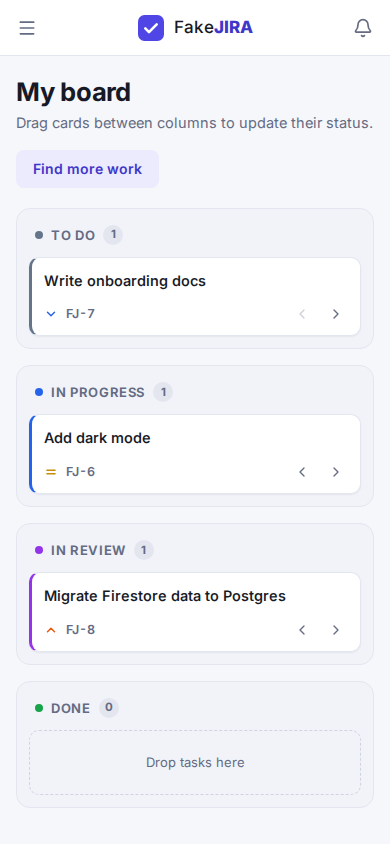
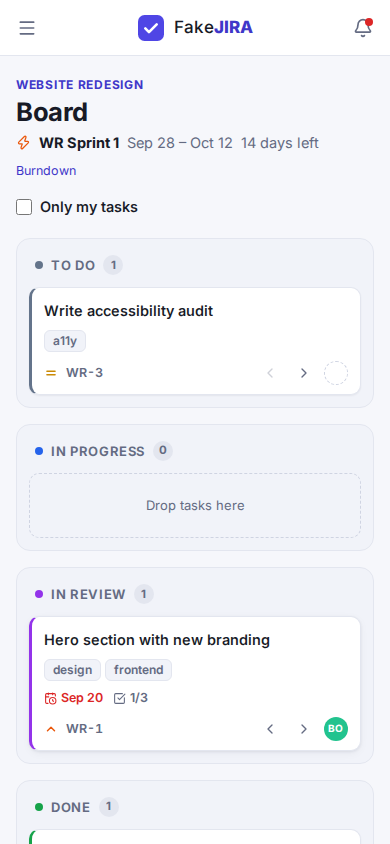
Document new features and wire attachments and email into Docker
- Store attachments in the /data volume (APP_STORAGE_DIR).
- docker-compose passes optional settings from .env (APP_BASE_URL,
  SPRING_MAIL_*); .env.example documents them.
- README: new features, configuration, upgrade notes from 2.0, API
  table and fresh screenshots.

Claude-Session: https://claude.ai/code/session_01PNjnNnhnffkfiRPxc5R3YR

diff --git a/README.md b/README.md
@@ -3,22 +3,39 @@
 A lightweight, Jira-style task tracker for small teams, built for a university course.
 Version 2.0 replaces the original Android + Firebase app with a **Spring Boot** REST API and a **React** web frontend.
 
-![Backlog](docs/backlog.png)
+![Board](docs/board.png)
 
-| My board | Task detail | Mobile |
-| --- | --- | --- |
-| ![Board](docs/board.png) | ![Task detail](docs/task-detail.png) | ![Mobile](docs/mobile.png) |
+| Backlog & sprints | Task detail | Burndown | Mobile |
+| --- | --- | --- | --- |
+| ![Backlog](docs/backlog.png) | ![Task detail](docs/task-detail.png) | ![Burndown](docs/reports.png) | ![Mobile](docs/mobile.png) |
 
 ## Features
 
-- **Accounts**: register and sign in with a username or email. Passwords are hashed with BCrypt and the API uses JWT bearer tokens.
-- **Backlog**: shows available (unassigned) tasks, tasks you reported, or all tasks. You can search and filter by priority and status.
-- **Tasks**: create, edit and delete tasks with a title, a description and a priority (low, medium, high or critical). Tasks get keys like `FJ-12`.
-- **Accept and release**: accepting a task moves it from the shared backlog onto your board. Releasing it puts it back.
-- **My board**: a Kanban board with To do, In progress, In review and Done columns. Move cards by drag and drop or with the arrow buttons, which also work on touch screens.
-- **Comments** on every task.
-- **Notifications**: you get one when someone accepts, updates, moves, comments on, releases or deletes a task you are involved in. The sidebar shows an unread badge.
-- **Profile**: your task stats and a password change form.
+**Projects and planning**
+- **Projects** each have their own members, backlog, board and task keys (`WEB-1`, `API-7`, …). The owner manages members and settings. Members can leave.
+- **Sprints**: plan work in the backlog by dragging tasks into a sprint (or use the dropdown), start it with dates, and complete it. Unfinished tasks go back to the backlog.
+- **Board** for the active sprint (or every task if none is running), with drag and drop, an "only my tasks" filter, due dates, labels and checklist progress on cards.
+- **Burndown chart** per sprint: remaining tasks per day against the ideal line, with a hover tooltip and a table view.
+- **My work**: everything assigned to you across projects, with overdue tasks first.
+
+**Tasks**
+- Assign to any project member, or accept a task yourself.
+- **Due dates**, with overdue and due-soon highlighting.
+- **Labels**, with autocomplete and filtering.
+- **Checklists** with a progress bar.
+- **Markdown** in descriptions and comments, with a live preview. Raw HTML is not rendered.
+- **@mentions** in comments, with autocomplete; mentioned members get notified.
+- **Attachments** (up to 10 MB each): drag and drop to upload, with image previews. Files are always served as downloads.
+- **Activity history**, e.g. "changed status from To do to In progress".
+
+**Staying up to date**
+- **Live updates**: boards, backlogs, tasks and notification badges refresh by themselves when someone else changes something (server-sent events).
+- **Notifications** in the app, and optionally **by email** (each user turns it on in their profile).
+- **Keyboard shortcuts**: `c` to create a task, `/` to search, `g b` / `g k` / `g r` / `g m` / `g n` / `g p` to jump to board, backlog, reports, my work, notifications and projects, and `?` for help.
+
+**Accounts**
+- Register and sign in with a username or email. Passwords are hashed with BCrypt, and the API uses JWT bearer tokens.
+- **Password reset** by email: single-use links, valid for one hour.
 - Light and dark themes, and a responsive layout for phones.
 
 ## Tech stack
@@ -26,7 +43,7 @@ Version 2.0 replaces the original Android + Firebase app with a **Spring Boot** 
 | Layer | Stack |
 | --- | --- |
 | Backend | Java 17+, Spring Boot 3.5 (Web, Data JPA, Security, OAuth2 Resource Server/JWT, Validation), H2 database |
-| Frontend | React 19, TypeScript, Vite, React Router, lucide icons |
+| Frontend | React 19, TypeScript, Vite, React Router, react-markdown, lucide icons |
 
 ## Project layout
 
@@ -103,34 +120,57 @@ See [`deploy/Caddyfile.example`](deploy/Caddyfile.example) and add one site bloc
 | --- | --- | --- |
 | `app.jwt.secret` | `APP_JWT_SECRET` | Random on each start. Set a value of 32+ characters so logins survive restarts. |
 | `app.jwt.validity` | `APP_JWT_VALIDITY` | `12h` |
+| `app.base-url` | `APP_BASE_URL` | `http://localhost:5173`. The public URL, used for links in emails. |
+| `app.storage.dir` | `APP_STORAGE_DIR` | `./data/attachments` (`/data/attachments` in Docker) |
 | `spring.datasource.url` | `SPRING_DATASOURCE_URL` | `jdbc:h2:file:./data/fakejira` |
+| `spring.mail.host` | `SPRING_MAIL_HOST` | Empty, so email is off. Also set `SPRING_MAIL_PORT`, `SPRING_MAIL_USERNAME`, `SPRING_MAIL_PASSWORD` and `APP_MAIL_FROM`. For an SMTP relay without login, set `SPRING_MAIL_SMTP_AUTH=false`. |
+
+**Email is optional.** Without SMTP, the email toggle in profiles is disabled. Password reset links are then written to the server log instead (`docker logs fakejira`), so an administrator can pass them on.
+
+### Upgrading from 2.0
+
+Just deploy the new version on your existing database. On first start, all existing tasks move into a project called **FakeJIRA** (key `FJ`) and keep their `FJ-<number>` keys. Every existing user becomes a member of it. Logins stay valid if `APP_JWT_SECRET` is unchanged.
 
 ## Tests
 
 ```bash
-cd backend && mvn test          # API integration tests
+cd backend && mvn test          # API integration tests (projects, sprints, attachments, live events, email, upgrade)
 cd frontend && npm run build    # type-check + production build
 ```
 
 ## API overview
 
-All endpoints except register and login need an `Authorization: Bearer <token>` header.
+All endpoints except register, login and password reset need an `Authorization: Bearer <token>` header.
 
 | Method | Path | Description |
 | --- | --- | --- |
-| POST | `/api/auth/register` | Create an account, returns `{ token, user }` |
-| POST | `/api/auth/login` | Sign in with `{ login, password }` |
+| POST | `/api/auth/register`, `/api/auth/login` | Create an account or sign in; returns `{ token, user }` |
+| POST | `/api/auth/forgot-password`, `/api/auth/reset-password` | Email a reset link / set a new password with the link's token |
 | GET | `/api/auth/me` | Current user |
-| GET | `/api/tasks?scope=AVAILABLE\|MINE\|REPORTED\|ALL&q=&priority=&status=` | List and search tasks |
-| POST | `/api/tasks` | Create a task |
-| GET / PUT / DELETE | `/api/tasks/{id}` | Read, update (reporter or assignee), or delete (reporter only) |
+| GET / POST | `/api/projects` | My projects / create a project (`{ key, name, description }`) |
+| GET / PUT / DELETE | `/api/projects/{key}` | Read, update or delete (owner) a project |
+| POST / DELETE | `/api/projects/{key}/members[/{userId}]` | Add a member by username or email / remove a member or leave |
+| GET | `/api/projects/{key}/labels` | Labels used in the project |
+| GET / POST | `/api/projects/{key}/sprints` | List or create sprints |
+| PUT / DELETE | `/api/sprints/{id}` | Edit or delete (planned only) a sprint |
+| POST | `/api/sprints/{id}/start`, `/api/sprints/{id}/complete` | Start or complete a sprint |
+| GET | `/api/sprints/{id}/burndown` | Burndown data points |
+| GET | `/api/tasks?project=&scope=AVAILABLE\|MINE\|REPORTED\|ALL&q=&priority=&status=&label=&sprint=<id>\|backlog&assignee=<id>\|me\|none` | List and search tasks in your projects |
+| POST | `/api/tasks` | Create a task (`projectKey`, `title`, `description`, `priority`, `dueDate`, `labels`, `assigneeId`, `sprintId`) |
+| GET / PUT / DELETE | `/api/tasks/{id}` | Read, update, or delete (reporter or project owner) |
 | PATCH | `/api/tasks/{id}/status` | Change status |
+| PUT | `/api/tasks/{id}/assignee`, `/api/tasks/{id}/sprint` | Assign (`null` unassigns) / move to a sprint (`null` = backlog) |
 | POST | `/api/tasks/{id}/accept`, `/api/tasks/{id}/release` | Take or give back a task |
-| GET / POST | `/api/tasks/{id}/comments` | List or add comments |
-| GET | `/api/notifications` | Notifications plus unread count |
+| GET / POST | `/api/tasks/{id}/comments` | List or add comments (`@username` mentions notify) |
+| GET / POST / PATCH / DELETE | `/api/tasks/{id}/checklist[/{itemId}]` | Checklist items |
+| GET | `/api/tasks/{id}/activity` | Task history |
+| GET / POST | `/api/tasks/{id}/attachments` | List or upload (`multipart/form-data`, field `file`) |
+| GET / DELETE | `/api/attachments/{id}/content`, `/api/attachments/{id}` | Download or delete a file |
+| GET | `/api/events` | Server-sent event stream of live changes |
+| GET | `/api/users?q=` | Username search (for adding members) |
+| GET | `/api/notifications`, `/api/notifications/unread-count` | Notifications |
 | POST | `/api/notifications/{id}/read`, `/api/notifications/read-all` | Mark as read |
-| GET | `/api/profile` | Profile and stats |
-| PUT | `/api/profile/password` | Change password |
+| GET / PUT | `/api/profile`, `/api/profile/settings`, `/api/profile/password` | Profile, email notification setting, password change |
 
 ## Contact
 
